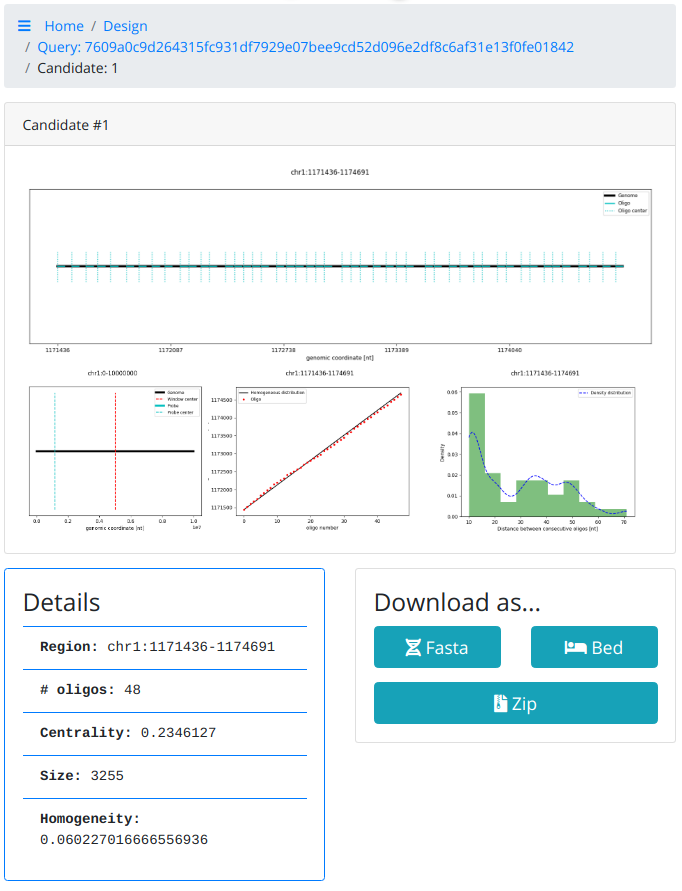
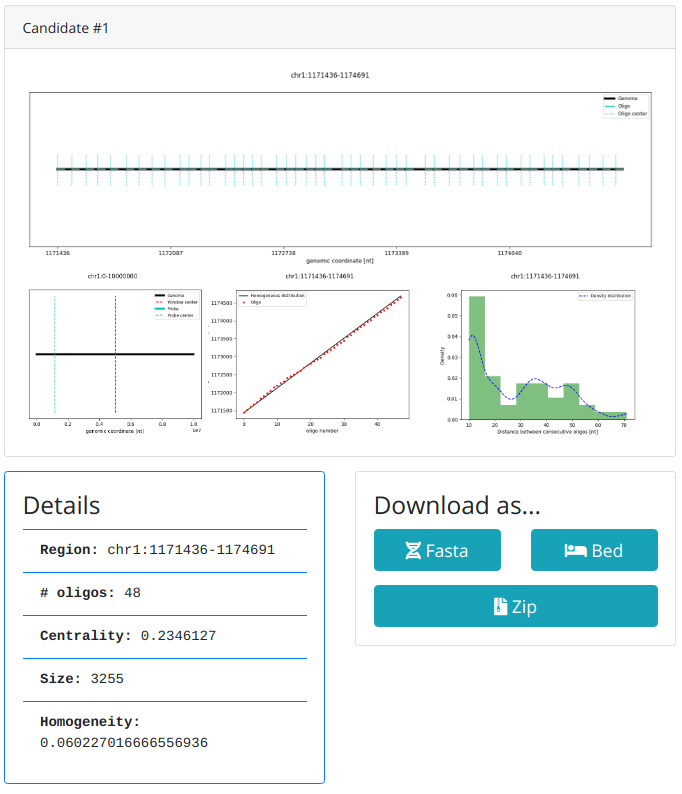
Removed references to navigation bar.

diff --git a/interface.md b/interface.md
@@ -69,11 +69,11 @@ In the **What** card, the *Max output probes* field is replaced by the two field
 
 ## Query page
 
-The query starts with a big header banner with the text **Query**, immediately followed by a breadcrumb navigation bar, with a dropdown menu on the left and the parents pages.
+The query starts with a big header banner with the text **Query**.
 
 ![query-head]({{ site.baseurl }}/images/query-head.png)
 
-Right after the navigation bar, a gray alert is shown, recommending to either save the link to this page, bookmark it, or note down your query ID. You can use the link to the query page to get back to it, or use the query ID to get back there using the **search** tab in the homepage. You can copy the query ID either by selecting it from the navigation bar (it's that list of characters after "Query: ") or simply by clicking on the "copy your query id" link. To hide this message click on the black cross (<span class="fas fa-times"></span>) on the left.
+Then, a gray alert is shown, recommending to either save the link to this page, bookmark it, or note down your query ID. You can use the link to the query page to get back to it, or use the query ID to get back there using the **search** tab in the homepage. You can copy the query ID simply by clicking on the "copy your query id" link. To hide this message click on the black cross (<span class="fas fa-times"></span>) on the left.
 
 Then, if the query is not processed immediately but queued instead, a <span class="text-warning">yellow</span> alert reports the queuing time. The page keeps refreshing automatically every 10 seconds while the query is in the queue. If this does not happen, you can do it by clicking on the refresh (<span class="fas fa-redo"></span>) icon on the left.
 
@@ -112,7 +112,7 @@ Finally, a big <span class="text-success">green</span> "Download" button allows 
 
 ![candidate-page]({{ site.baseurl }}/images/candidate-page.png)
 
-The **Probe candidate page** is relatively simple: navigation bar at the top, graphical reports on the candidate in the first card, followed by a **Details** card a three buttons to download the candidate in a variety of formats.
+The **Probe candidate page** is relatively simple: graphical reports on the candidate in the first card, followed by a **Details** card a three buttons to download the candidate in a variety of formats.
 
 The plots in the first card show the following:
 
@@ -125,7 +125,7 @@ The plots in the first card show the following:
 
 ![candidate-set-page]({{ site.baseurl }}/images/candidate-set-page.png)
 
-The **Probe candidate page** is also relatively simple and follows a similar structure as the probe candidate one: navigation bar at the top, graphical reports on the candidate set in the first card, followed by a **Probe list** card with links to the single probe pages, and then three buttons to download the candidate set in a variety of formats.
+The **Probe candidate page** is also relatively simple and follows a similar structure as the probe candidate one: graphical reports on the candidate set in the first card, followed by a **Probe list** card with links to the single probe pages, and then three buttons to download the candidate set in a variety of formats.
 
 The plots in the first card show the following:
 
